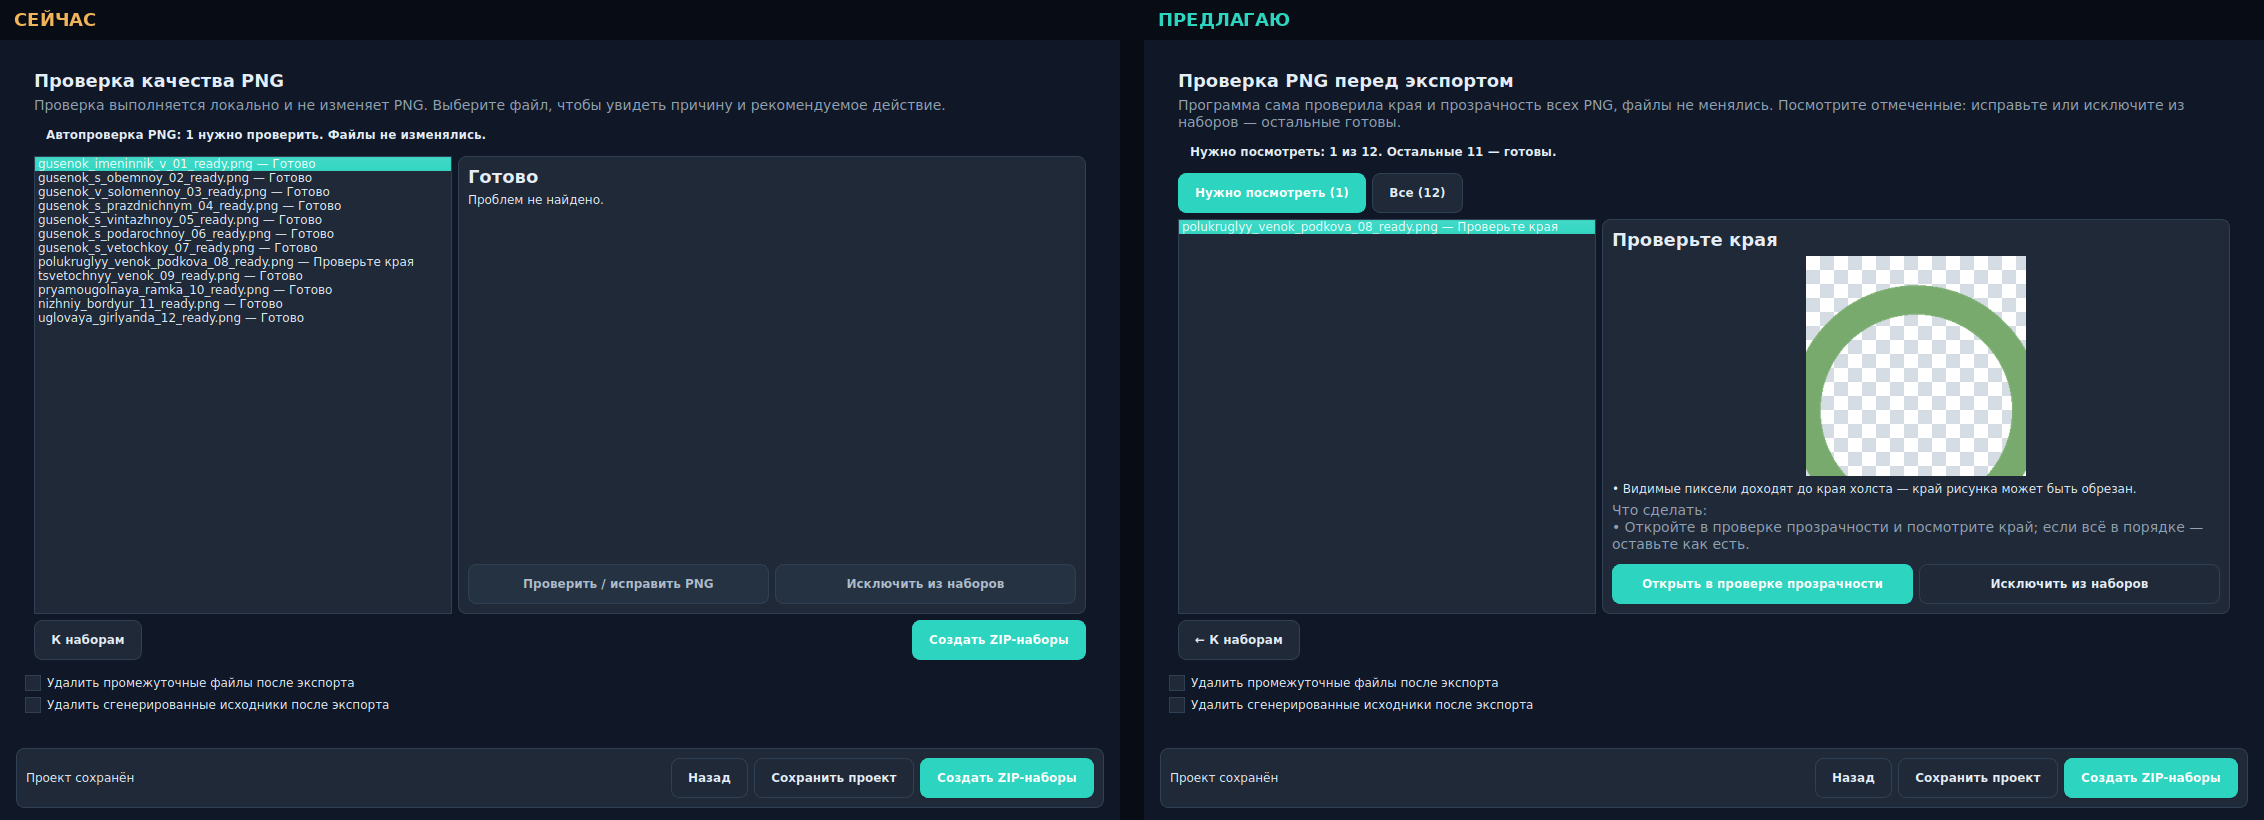
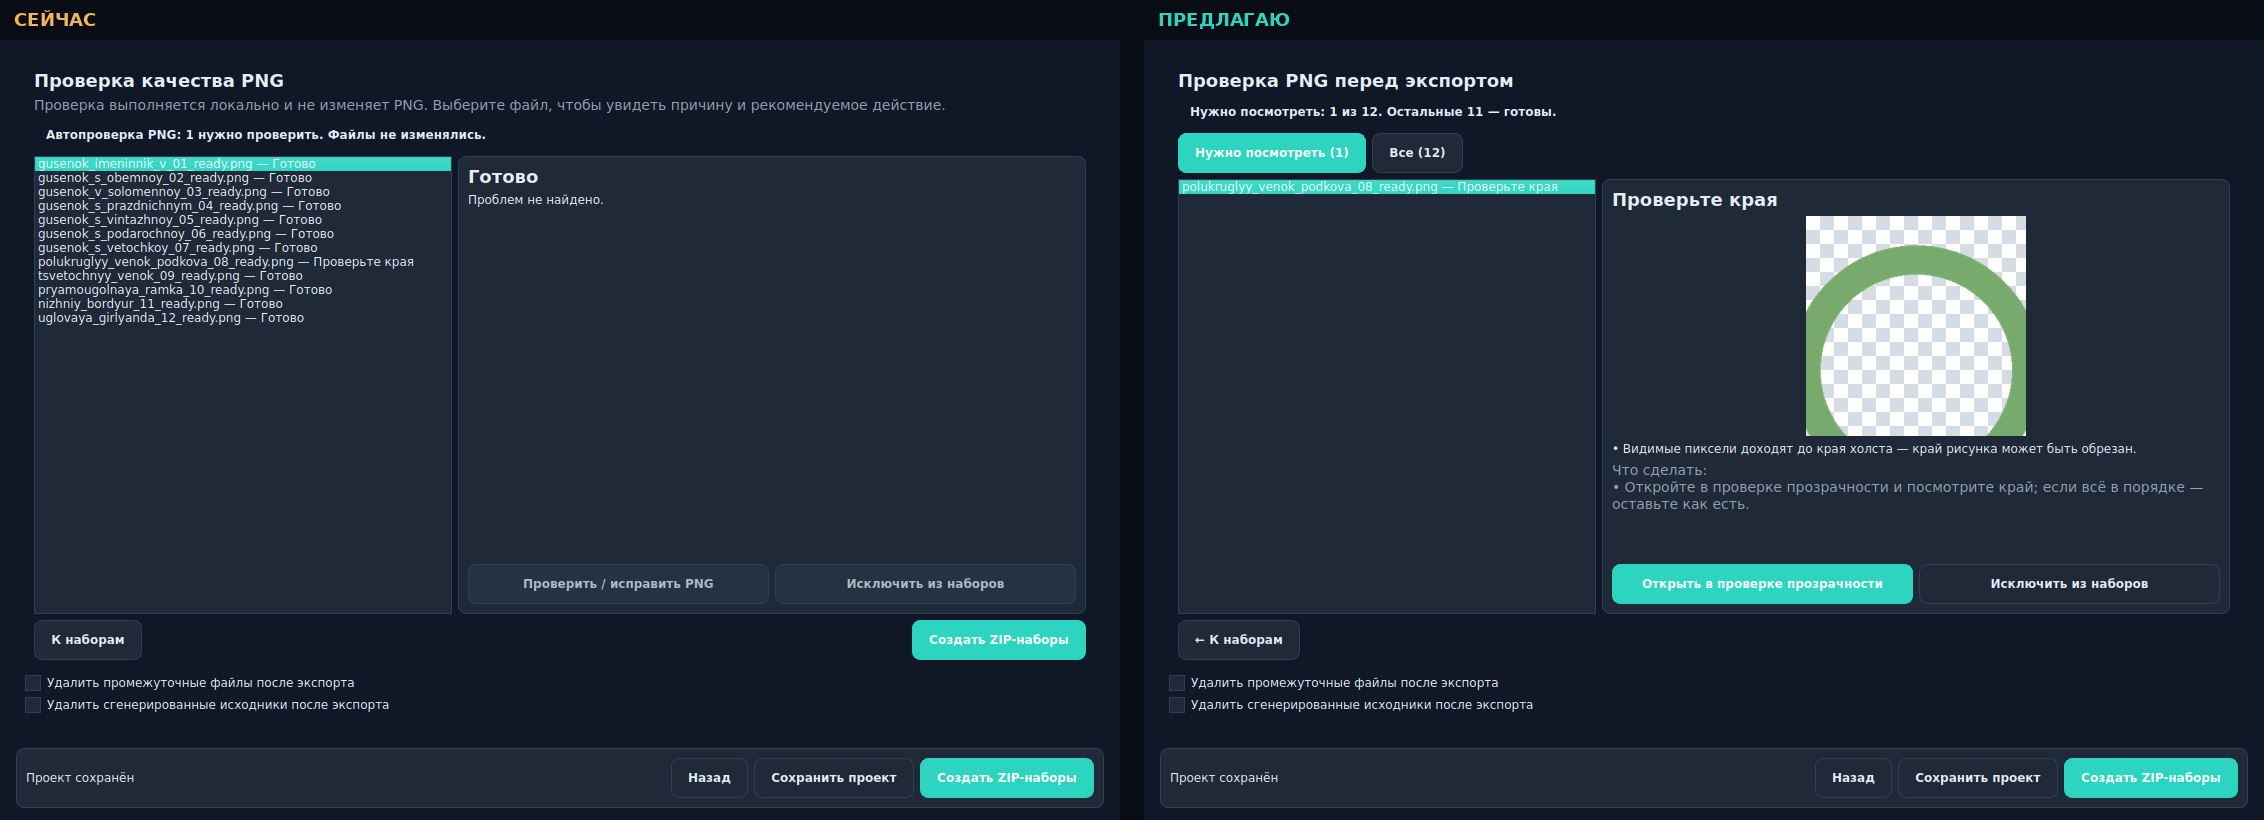
ui: problem files dialog and export check mockup without explanatory captions (owner rule) [skip ci]

Changed region(s): [[0.4947, 0.122, 0.9585, 0.6707]]

diff --git a/v3_run_queue.py b/v3_run_queue.py
@@ -1847,11 +1847,6 @@ class ProblemFilesDialog(QDialog):
         title = QLabel(f"Проблемные файлы — {len(rows)} из {total}")
         title.setStyleSheet("font-size:18px;font-weight:bold")
         layout.addWidget(title)
-        hint = QLabel("Готовые файлы уже в папке результатов. Ниже — что не получилось и почему. «Доделать "
-                      "оставшиеся» повторит только эти файлы; уже оплаченные этапы повторно не оплачиваются.")
-        hint.setWordWrap(True)
-        hint.setProperty("v3Description", True)
-        layout.addWidget(hint)
         self.table = QTableWidget(len(rows), 5)
         self.table.setHorizontalHeaderLabels(["Итог", "Файл", "Этап", "Причина", "Попыток"])
         self.table.verticalHeader().hide()
@@ -1867,9 +1862,6 @@ class ProblemFilesDialog(QDialog):
         for column in (0, 1, 2, 4):
             header.setSectionResizeMode(column, QHeaderView.ResizeMode.ResizeToContents)
         layout.addWidget(self.table, 1)
-        note = QLabel("В список не попадают полные пути к файлам. Сохраняется в текстовый файл UTF-8.")
-        note.setProperty("v3Description", True)
-        layout.addWidget(note)
         buttons = QHBoxLayout()
         self.copy_button = V3Button("Скопировать список", ButtonVariant.SECONDARY)
         self.copy_button.clicked.connect(self.copy_report)

diff --git a/docs/ui/3.2/export-png-check/render.py b/docs/ui/3.2/export-png-check/render.py
@@ -51,9 +51,7 @@ def window(proposed):
         panel.quality_export_button.hide()
         panel.quality_back_button.setText("← К наборам")
         page.layout().itemAt(0).widget().setText("Проверка PNG перед экспортом")
-        page.layout().itemAt(1).widget().setText(
-            "Программа сама проверила края и прозрачность всех PNG, файлы не менялись. "
-            "Посмотрите отмеченные: исправьте или исключите из наборов — остальные готовы.")
+        page.layout().itemAt(1).widget().hide()   # owner 2026-10-23: no explanatory captions
         panel.quality_page_summary_label.setText("Нужно посмотреть: 1 из 12. Остальные 11 — готовы.")
         # filter: problems first, auto-selected
         chips = QHBoxLayout()

diff --git a/docs/ui/3.2/export-png-check/README.md b/docs/ui/3.2/export-png-check/README.md
@@ -8,7 +8,7 @@
 «Готово»), а проблемный терялся в длинном списке.
 
 Предложение `export-png-check.png` (`render.py <repo> <out>`):
-- заголовок «Проверка PNG перед экспортом» и объяснение простыми словами;
+- заголовок «Проверка PNG перед экспортом», без поясняющего абзаца (правка владельца: минимум подписей);
 - строка «Нужно посмотреть: N из M. Остальные — готовы.»;
 - переключатель «Нужно посмотреть (N) / Все (M)», по умолчанию — только проблемные, первый выбран сразу;
 - справа — картинка выбранного PNG на клетчатом фоне, проблема и что сделать; кнопки «Открыть в проверке

diff --git a/docs/ui/3.2/legacy-3.1-ports/README.md b/docs/ui/3.2/legacy-3.1-ports/README.md
@@ -14,3 +14,5 @@
 
 Уже перенесено без видимых изменений (PR #37–#40): целостность итогового PNG, резкость без ореола, повторы сохранения,
 быстрое добавление больших файлов.
+
+- Правка владельца 2026-10-23: без поясняющих подписей в окнах — только заголовок, таблица и кнопки (actual/C2).
